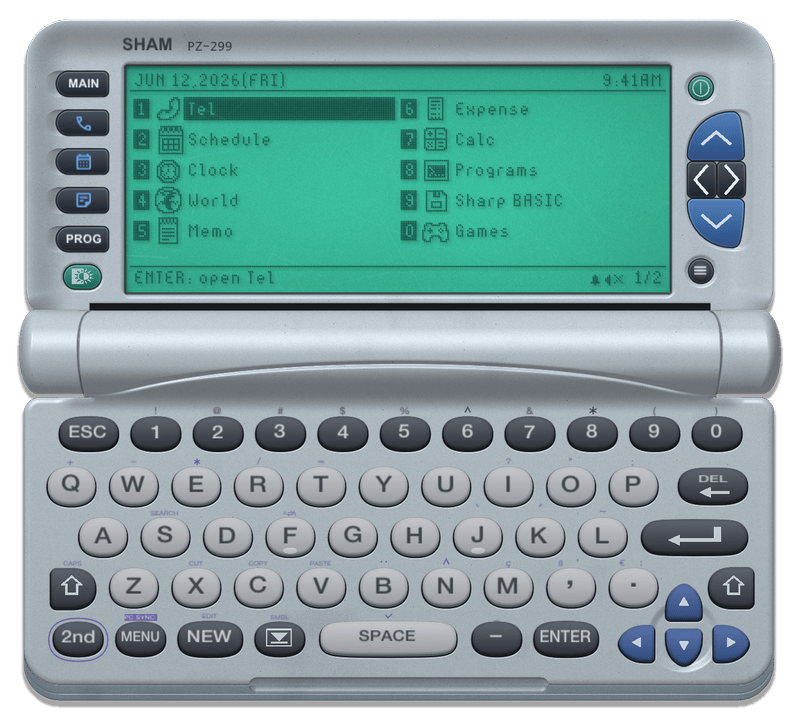
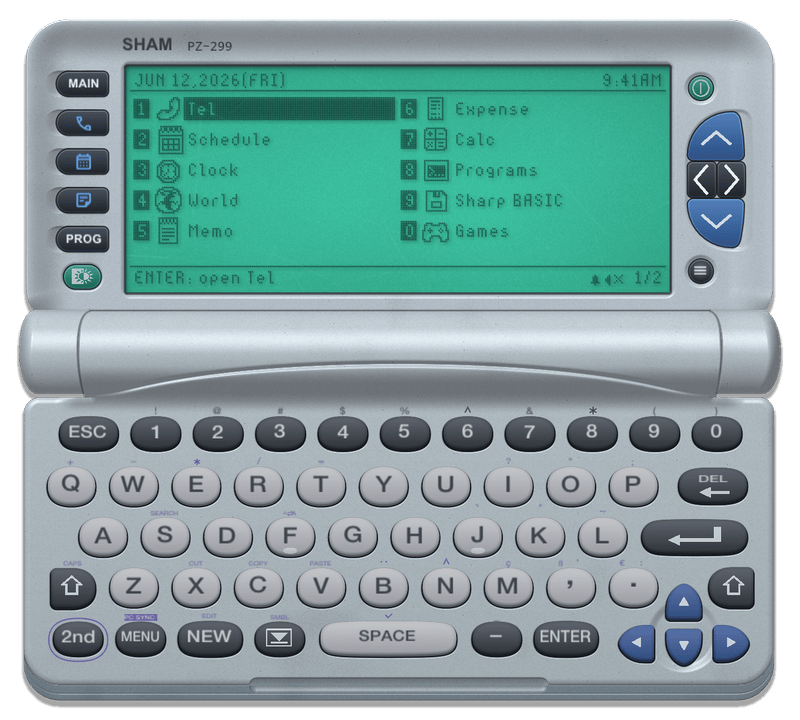
Close the gap between the lid and the hinge with lid plastic and a hairline contact shadow.

Changed region(s): [[0.0938, 0.3972, 0.875, 0.4583]]

diff --git a/src/device.cpp b/src/device.cpp
@@ -1091,13 +1091,15 @@ void square_corners(Shape &shape, bool top, float y_edge, float reach) {
 }
 
 Shape lid_body(const DeviceLayout &layout) {
-    Shape body = lid_shape(Frame{ layout.image_min, layout.image_max, layout.u }, LID_SHAPE_BODY);
-    if (!layout.compact) return body;
+    Frame frame{ layout.image_min, layout.image_max, layout.u };
+    Shape body = lid_shape(frame, LID_SHAPE_BODY);
     ImRect box = bounds(body);
-    square_corners(body, false, box.Max.y, LID_BODY_RADIUS * layout.u);
+    ImRect barrel = bounds(lid_shape(frame, LID_SHAPE_KEYBOARD_HINGE));
     for (ImVec2 &point : body) {
-        if (point.y > box.Max.y - LID_NOTCH_DEPTH * layout.u) point.y = box.Max.y;
+        bool in_notch = point.x > barrel.Min.x && point.x < barrel.Max.x;
+        if ((layout.compact || in_notch) && point.y > box.Max.y - LID_NOTCH_DEPTH * layout.u) point.y = box.Max.y;
     }
+    if (layout.compact) square_corners(body, false, box.Max.y, LID_BODY_RADIUS * layout.u);
     return body;
 }
 
@@ -1285,6 +1287,9 @@ const float LID_RELIEF = 1.0f;
 const float LID_DISH_WIDTH = 60.0f;
 const float LID_DISH_DEPTH = 28.0f;
 const float LID_DISH_CLEARANCE = 4.0f;
+const float LID_CONTACT_WIDTH = 1.4f;
+const float LID_CONTACT_DEPTH = 1.0f;
+const float LID_CONTACT_SHADE = 0.55f;
 const float LID_SHEEN = 0.12f;
 const float LID_SHEEN_REACH = 0.45f;
 const float PLAIN_EDGE = 2.0f;
@@ -1292,7 +1297,6 @@ const float PLAIN_RELIEF = 0.8f;
 const float SCREEN_WALL = 6.0f;
 const float SCREEN_DEPTH = 3.0f;
 const ImU32 LCD_SURROUND = IM_COL32(58, 64, 68, 255);
-const ImU32 HINGE_GAP = IM_COL32(24, 28, 30, 255);
 const float FLUTE_WALL = 0.5f;
 const float FLUTE_DEPTH = 7.0f;
 const float KEY_WELL_WALL = 5.5f;
@@ -1485,17 +1489,14 @@ void add_lid(CaseScene &scene, const DeviceLayout &layout) {
     dish.radius = LID_DISH_WIDTH * u;
     dish.height = LID_DISH_DEPTH * u;
     scene.layers.push_back(dish);
-}
-
-void add_gap(CaseScene &scene, const DeviceLayout &layout) {
-    Shape left, right, middle;
-    ImRect span;
-    hinge_span(layout, left, right, middle, span);
-    ImRect notch = bounds(lid_body(layout));
-    float top = notch.Max.y - LID_NOTCH_DEPTH * layout.u;
-    CaseLayer gap = case_layer(CASE_SOLID, rounded_rect(ImVec2(bounds(middle).Min.x, top), ImVec2(bounds(middle).Max.x, span.Min.y + 4.0f * layout.u), 0.5f), HINGE_GAP);
-    gap.grime = false;
-    scene.layers.push_back(gap);
+    if (!layout.has_keyboard || layout.compact) return;
+    ImRect barrel = bounds(lid_shape(Frame{ layout.image_min, layout.image_max, u }, LID_SHAPE_KEYBOARD_HINGE));
+    CaseLayer contact = case_layer(CASE_GROOVE, body);
+    contact.edges = ImRect(barrel.Min.x, box.Max.y - u, barrel.Max.x, FLT_MAX);
+    contact.radius = LID_CONTACT_WIDTH * u;
+    contact.height = LID_CONTACT_DEPTH * u;
+    contact.tint = LID_CONTACT_SHADE;
+    scene.layers.push_back(contact);
 }
 
 CaseLayer recess_layer(const Shape &outline, CaseRecessShape shape, float wall, float depth, ImU32 top, ImU32 bottom, float tint) {
@@ -1564,7 +1565,6 @@ CaseScene case_scene(const DeviceLayout &layout, const DeviceState &state, float
     CaseScene scene;
     scene.scale = scale;
     if (state.show_keys) {
-        if (layout.has_keyboard && !layout.compact) add_gap(scene, layout);
         if (layout.has_keyboard && !layout.compact) add_hinge(scene, layout);
         if (layout.has_keyboard) add_keyboard(scene, layout);
         if (layout.has_keyboard) add_keyboard_wells(scene, layout);
